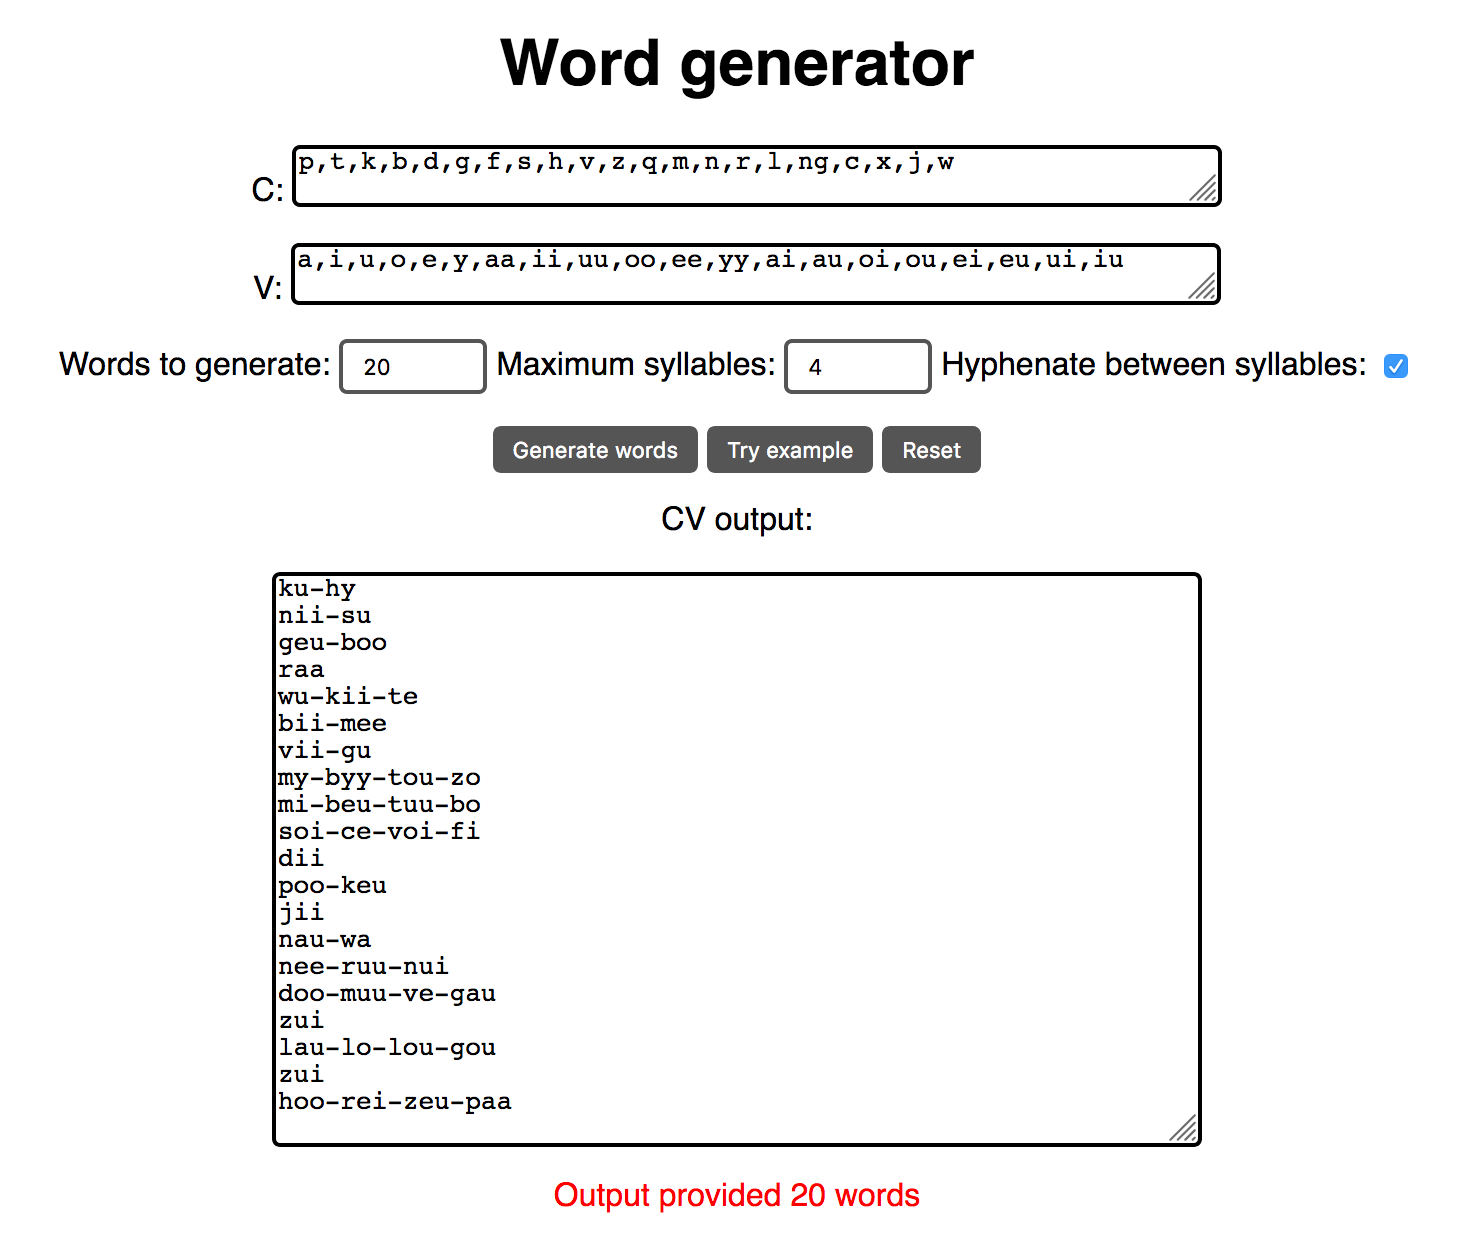
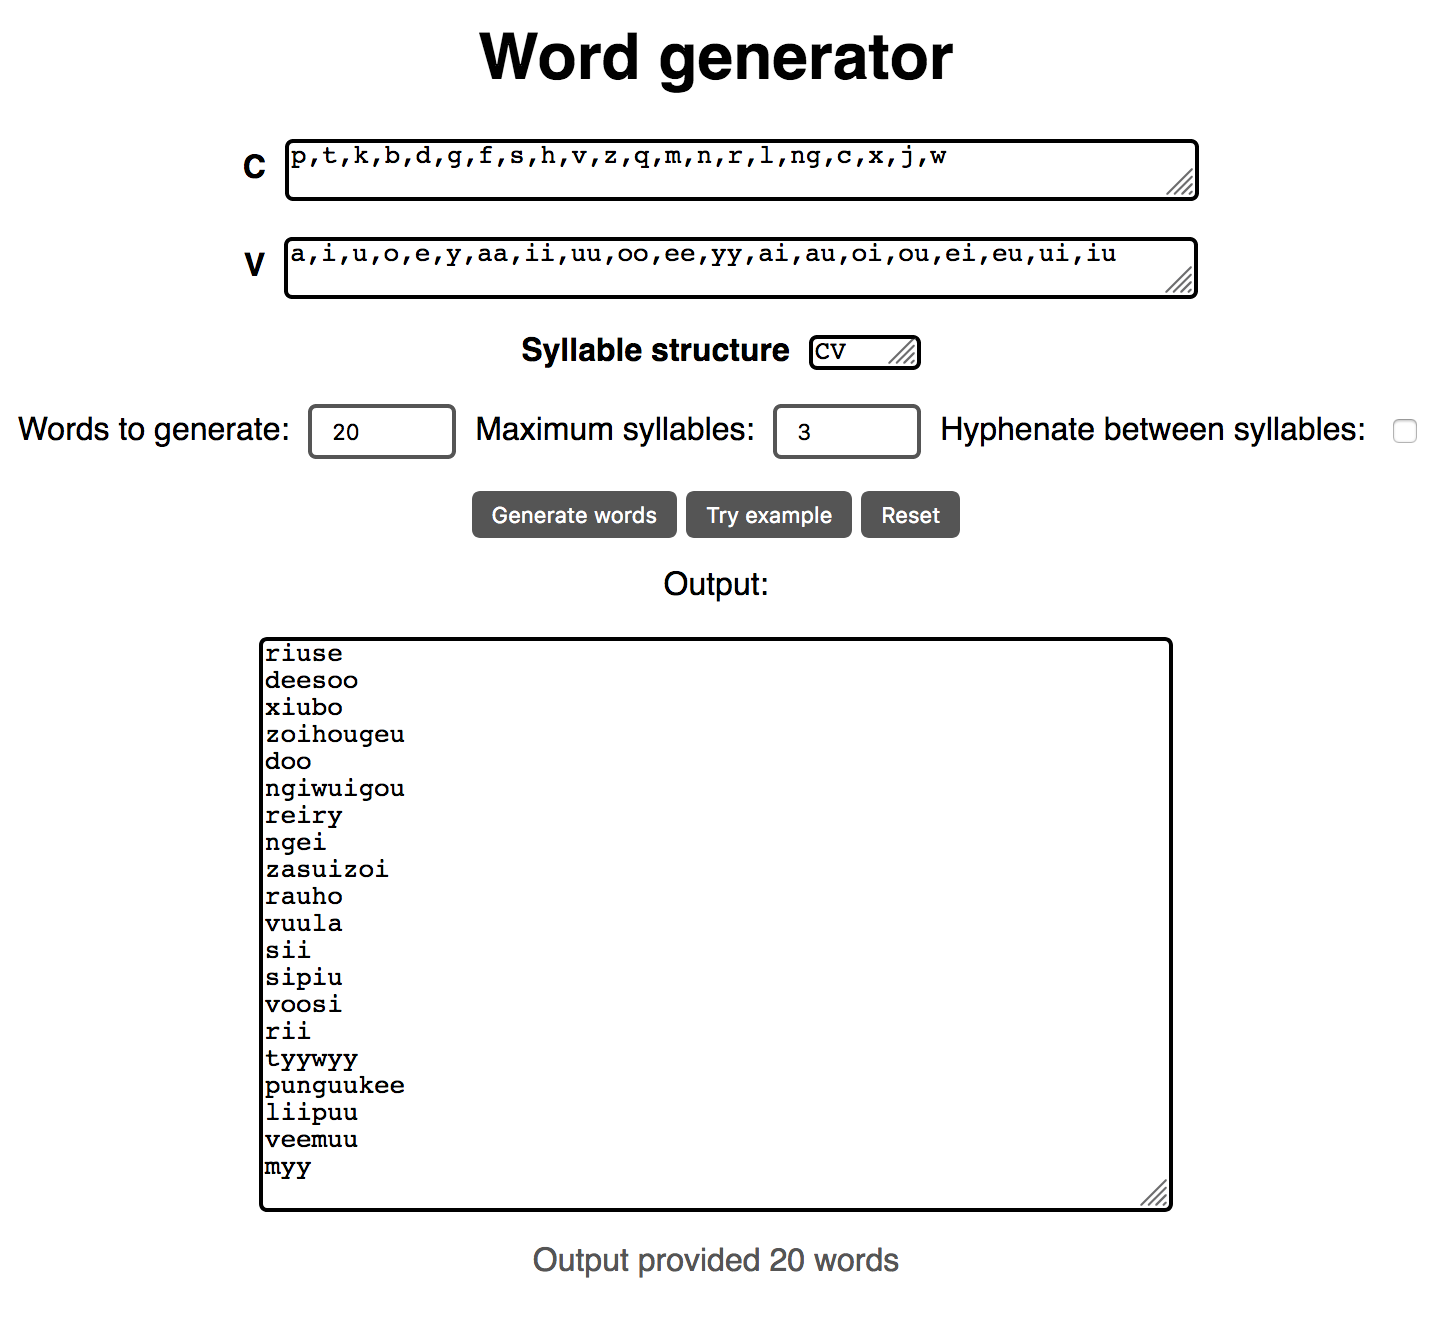
Adjusted defaults and decoration

Changed region(s): [[0.0, 0.0, 0.9634, 0.9657]]

diff --git a/wordgen.html b/wordgen.html
@@ -7,12 +7,11 @@
     <meta name="keywords" content="">
     <meta name="author" content="Artur A.">
 
-		<script src="wordgen.js">
-		</script>
+	<script src="wordgen.js"></script>
 
 	<style>
-		body {font-family: sans-serif}
-		h1, h2 noscript, form {text-align: center}
+		body {font-family: sans-serif;}
+		h1, form {text-align: center;}
 		.button {
  			 background-color: #555555;
  			 border: none;
@@ -22,6 +21,9 @@
  			 text-decoration: none;
  			 display: inline-block;
  			 border-radius: 4px;
+ 		}
+ 		.button:hover {
+ 			 background-color: #999999;
  		}
  		textarea {
 			width: 60%;
@@ -34,7 +36,27 @@
   			border-radius: 4px;
   			padding: 5px 10px;
 		}
-		p.message {color: red}
+		p.message {color: #555555;}
+		.label {
+			padding: 0px 5px;
+		}
+		#letter-label, #structure-label {
+			font-weight: bold;
+		}
+		#structure {
+			border: 2px solid #555555;
+  			border-radius: 4px;
+  			padding: 5px 10px;
+		}
+		label, textarea {
+			display:inline-block;
+  			vertical-align:middle;
+
+		}
+		#struct-area {
+			width: 50px;
+		}
+		/* TODO: custom checkbox style */
 	</style>
 
   </head>
@@ -44,24 +66,35 @@
   
 	<form action="" name="mainForm">
 		<p>
-			C: <textarea rows="2" name="inC"></textarea>
+			<span class="label" id="letter-label">C</span>
+			<textarea rows="2" name="inC"></textarea>
 		</p>
 		<p>
-			V: <textarea rows="2" name="inV"></textarea>
+			<span class="label" id="letter-label">V</span>
+			<textarea rows="2" name="inV"></textarea>
 		</p>
 		<p>
-			Words to generate: <input type="text" name="wordsNum" value="20"></text>
-			<!--Minimum syllables: <input type="text" name="minSyl" value="1"></text>-->
-			Maximum syllables: <input type="text" name="maxSyl" value="4"></text>
-			<label for="hyphenate">Hyphenate between syllables: </label>
-			<input type="checkbox" id="hyphenate" checked>
+			<span class="label" id="structure-label">Syllable structure</span>
+			<textarea rows="1" name="struct" id="struct-area" readonly>CV</textarea>
+		</p>
+		<p>
+			<span class="label" id="param-label">Words to generate:</span>
+			<input type="text" name="wordsNum" value="20"></text>
+			<!--<span id="param-label">Minimum syllables: </span>
+			<input type="text" name="minSyl" value="1"></text>-->
+			<span class="label" id="param-label">Maximum syllables:</span>
+			<input type="text" name="maxSyl" value="3"></text>
+			<span class="label" id="param-label">
+				<label for="hyphenate">Hyphenate between syllables:</label>
+			</span>
+			<input type="checkbox" id="hyphenate" class="checkmark">
 		</p>
 		<p>
 			<input type=button class="button" value="Generate words" onClick="generate()"/>
 			<input type=button class="button" value="Try example" onClick="example()"/>
 			<input type=button class="button" value="Reset" onClick="reset()"/>
 		</p>
-		<p>CV output:</p>
+		<div class="label" id="output-label">Output:</div>
 		<p><textarea rows="21" name="outWords"></textarea></p>
 		<p id="messageField" class="message"></p>
 	</form>

diff --git a/wordgen.js b/wordgen.js
@@ -108,12 +108,13 @@ function genWords(quant,minsyl,maxsyl,c,v) {
 *	Provides example inputs
 */
 function example() {
+	reset();
 	document.forms["mainForm"].inC.value = 
 		'p,t,k,b,d,g,f,s,h,v,z,q,m,n,r,l,ng,c,x,j,w';
 	document.forms["mainForm"].inV.value = 
 		'a,i,u,o,e,y,aa,ii,uu,oo,ee,yy,ai,au,oi,ou,ei,eu,ui,iu';
-	document.forms["mainForm"].wordsNum.value = "20";
-	document.forms["mainForm"].maxSyl.value = "4"; 
+	//document.forms["mainForm"].wordsNum.value = "20";
+	//document.forms["mainForm"].maxSyl.value = "4"; 
 }
 
 /////////////////////////////////
